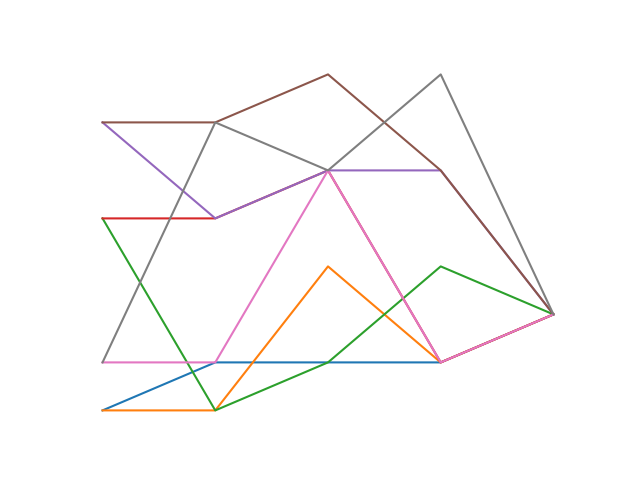
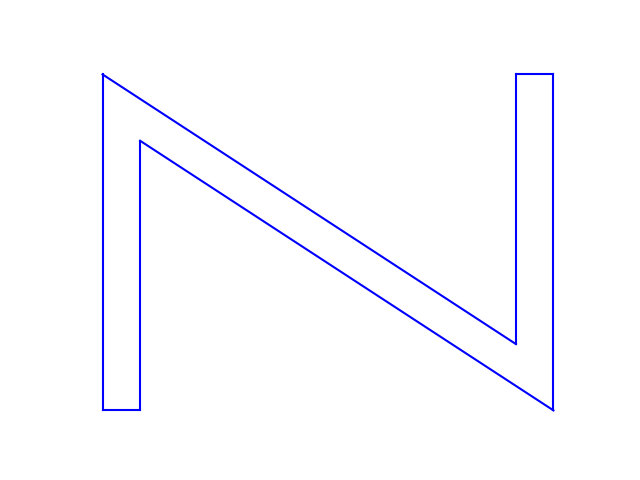
Fixed the original N

diff --git a/python/linear-algebra/drawN.py b/python/linear-algebra/drawN.py
@@ -18,7 +18,7 @@ f1, ax1 = plt.subplots(1)
 for i in range(8):
     for j in range(i + 1):
         if adj[i, j] == 1:
-            ax1.plot([N[0, i], N[0, j], N[1, i], N[1, j], 'b'])
+            ax1.plot([N[0, i], N[0, j]], [N[1, i], N[1, j]], 'b')
 
 ax1.axis("off")
 show()
